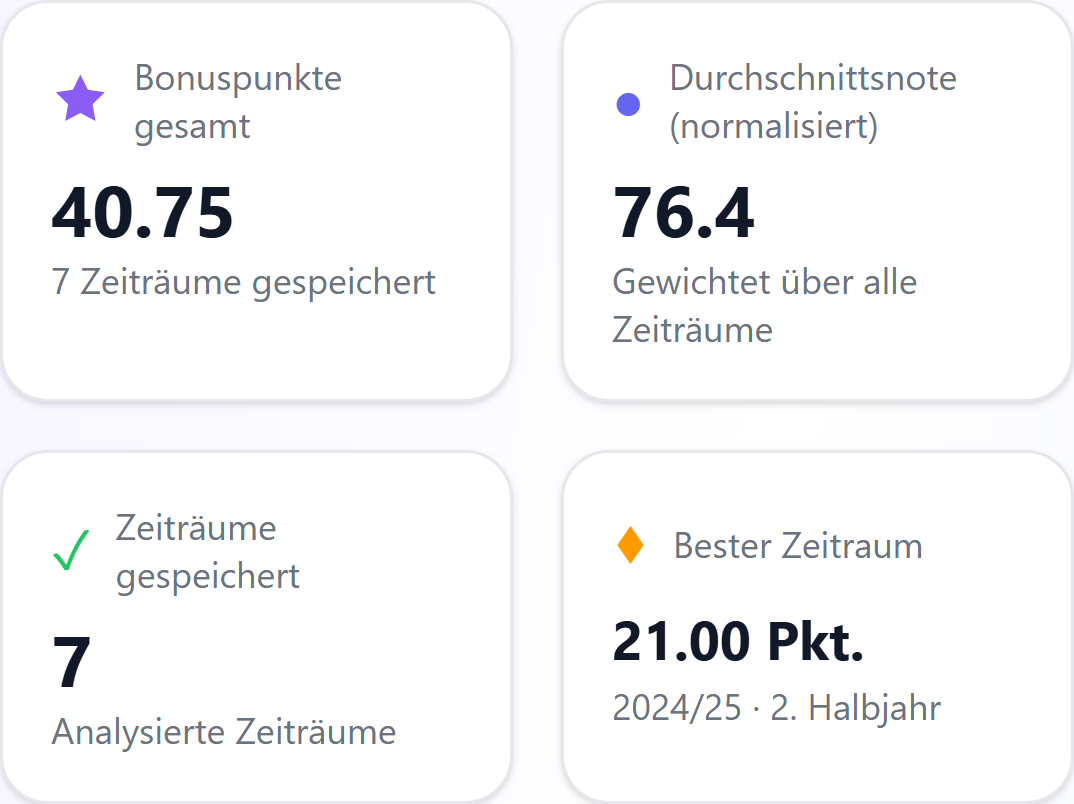
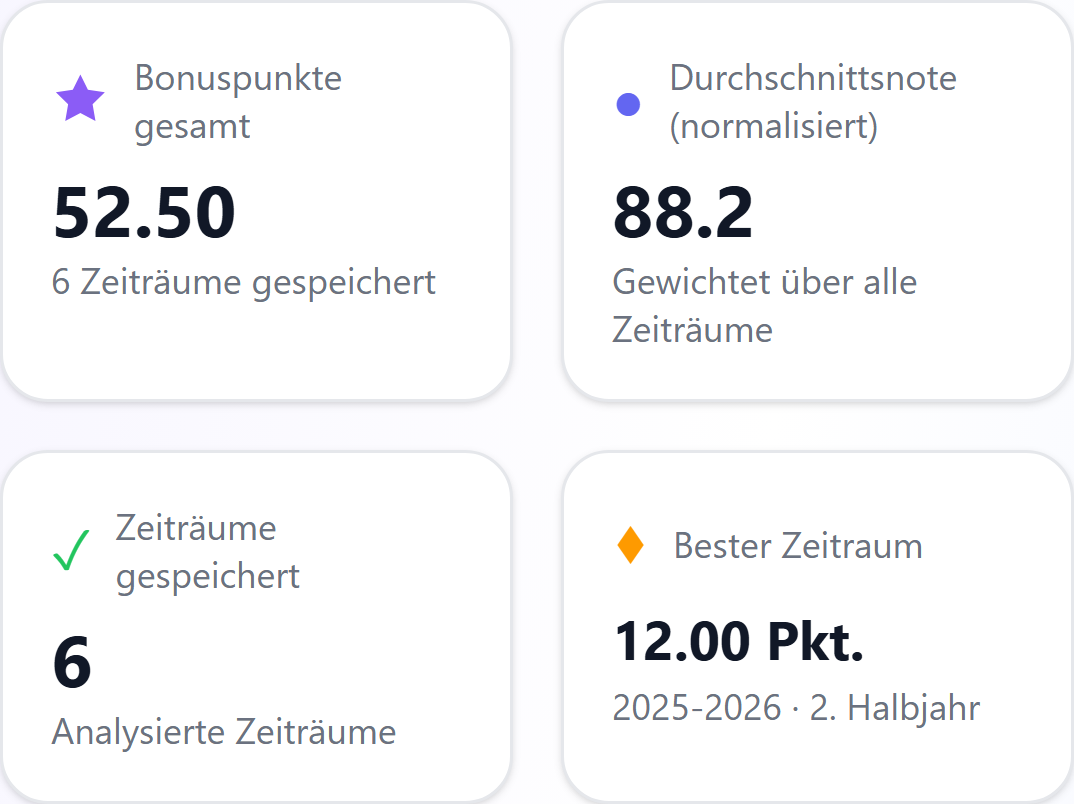
fix(social): seed demo values into the student stat grid instead of a live account
The "Schritt 3" carousel slide and the Motivation pin cropped the student
dashboard's stat grid straight from a real account (40.75 points, 76.4
average, 7 terms). The social-student-points capture now serves six
invented terms in place of /api/grades/list (52.50 points, 88.2 average,
6 terms) and refuses to write the screenshot unless the grid shows exactly
those values. Login is still needed only to pass the auth middleware.

Re-rendered 04_schritt3 and pin_ba_motivation (ig 1080x1350, pin 1000x1500);
pointsTotal anchor re-measured for the new number.

diff --git a/scripts/take-screenshots.ts b/scripts/take-screenshots.ts
@@ -187,6 +187,44 @@ const SOCIAL_REPORT_CARD: [subject: string, grade: string][] = [
   ['Biologie', '3'],
 ]
 
+// Invented dashboard data for the student stat grid (served in place of
+// /api/grades/list). Six terms; the dashboard shows the sum of
+// total_bonus_points (52.50) and the weight-averaged grade_normalized_100
+// (88.2). Every term has five weight-1 grades from the same set, so the
+// average is exactly (92 + 88 + 85 + 90 + 86) / 5 = 88.2.
+const SOCIAL_DEMO = { total: '52.50', avg: '88.2', count: 6 }
+const SOCIAL_DEMO_TERMS = (
+  [
+    ['2023-2024', 'semester_1', 7.25, '2023-12-15'],
+    ['2023-2024', 'semester_2', 8.75, '2024-07-10'],
+    ['2024-2025', 'semester_1', 6.5, '2024-12-20'],
+    ['2024-2025', 'semester_2', 9.5, '2025-07-11'],
+    ['2025-2026', 'semester_1', 8.5, '2025-12-19'],
+    ['2025-2026', 'semester_2', 12.0, '2026-07-09'],
+  ] as const
+).map(([schoolYear, termType, bonus, date], i) => ({
+  id: `demo-term-${i + 1}`,
+  school_year: schoolYear,
+  term_type: termType,
+  term_name: null,
+  class_level: 5 + Math.floor(i / 2),
+  grading_system_id: 'demo-de-1-6',
+  total_bonus_points: bonus,
+  created_at: `${date}T12:00:00.000Z`,
+  subject_grades: [92, 88, 85, 90, 86].map((norm, j) => ({
+    id: `demo-grade-${i + 1}-${j + 1}`,
+    subject_id: null,
+    grade_value: null,
+    grade_numeric: null,
+    grade_normalized_100: norm,
+    subject_weight: 1,
+    bonus_points: null,
+    grade_quality_tier: null,
+    subjects: null,
+  })),
+  grading_systems: null,
+}))
+
 // Site chrome that would otherwise land inside element screenshots: the sticky
 // header (stamped over elements taller than the viewport) and the floating
 // cookie-settings button (fixed bottom-left).
@@ -277,6 +315,11 @@ test.describe('social', () => {
 
     test('social-student-points', async ({ page }) => {
       await login(page, STUDENT_EMAIL, STUDENT_PASSWORD)
+      // The login only satisfies the auth middleware; the stat grid is fed
+      // invented demo terms so no real account's figures reach marketing.
+      await page.route('**/api/grades/list', (route) =>
+        route.fulfill({ json: { success: true, terms: SOCIAL_DEMO_TERMS } })
+      )
       await page.goto('/de/student/dashboard')
       await page.waitForLoadState('networkidle')
       await dismissCookieBanner(page)
@@ -289,6 +332,10 @@ test.describe('social', () => {
         .filter({ has: page.getByText('Bonuspunkte gesamt') })
         .filter({ has: page.getByText('Bester Zeitraum') })
         .last()
+      // Refuse to write the file unless the grid shows the seeded values.
+      await expect(grid).toContainText(SOCIAL_DEMO.total)
+      await expect(grid).toContainText(SOCIAL_DEMO.avg)
+      await expect(grid).toContainText(`${SOCIAL_DEMO.count} Zeiträume gespeichert`)
       await grid.screenshot({ path: path.join(SOCIAL_SOURCE_DIR, 'student-points.png') })
     })
   })

diff --git a/scripts/make-social-assets.ts b/scripts/make-social-assets.ts
@@ -363,12 +363,12 @@ async function calloutSize(text: string, maxTextWidth = 560, step?: number) {
 //   calc-results.png   "28.00 Pkt." ink box x 37–314, y 166–236
 //   calc-subjects.png  "Fach hinzufügen" x 909–1111, y 131–157;
 //                      rows: labels 186–222, Mathematik 244–380, Deutsch 402–538
-//   student-points.png "40.75" x 53–230, y 186–237; label x 136–339, y 63–145
+//   student-points.png "52.50" x 56–233, y 186–237; label x 136–340, y 63–145
 const ANCHOR = {
   resultsTotal: { x: 342, y: 196 }, // empty space just right of "Pkt."
   addSubject: { x: 1010, y: 126 }, // just above the "Fach hinzufügen" link
-  pointsTotal: { x: 250, y: 204 }, // just right of "40.75"
-  // "Bonuspunkte gesamt" label ink is x 136–339, y 63–145: an arrow into
+  pointsTotal: { x: 253, y: 204 }, // just right of "52.50"
+  // "Bonuspunkte gesamt" label ink is x 136–340, y 63–145: an arrow into
   // pointsTotal from above clears it only if it starts at x ≥ ~580.
   pointsArrowFromX: 600,
 }
